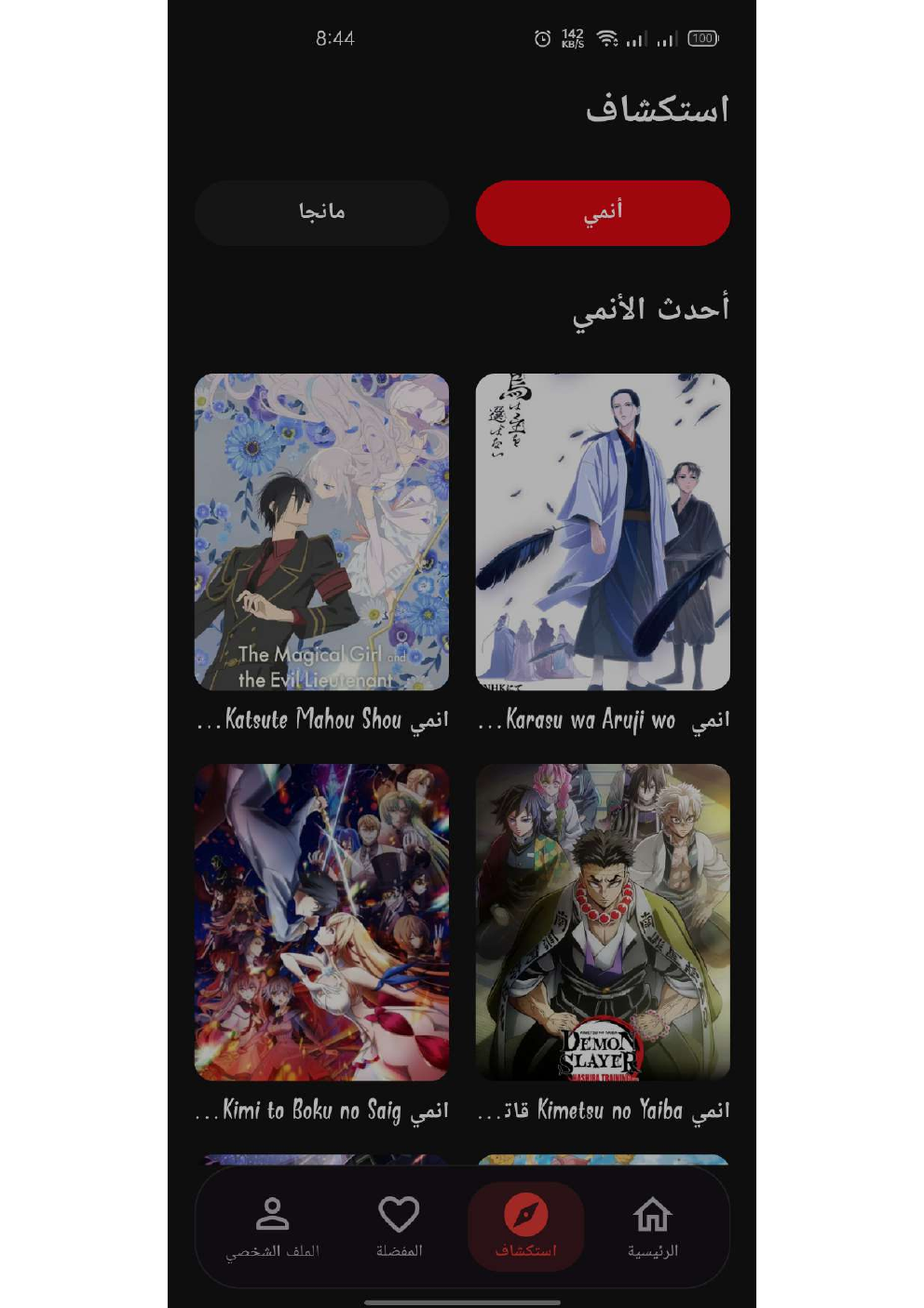
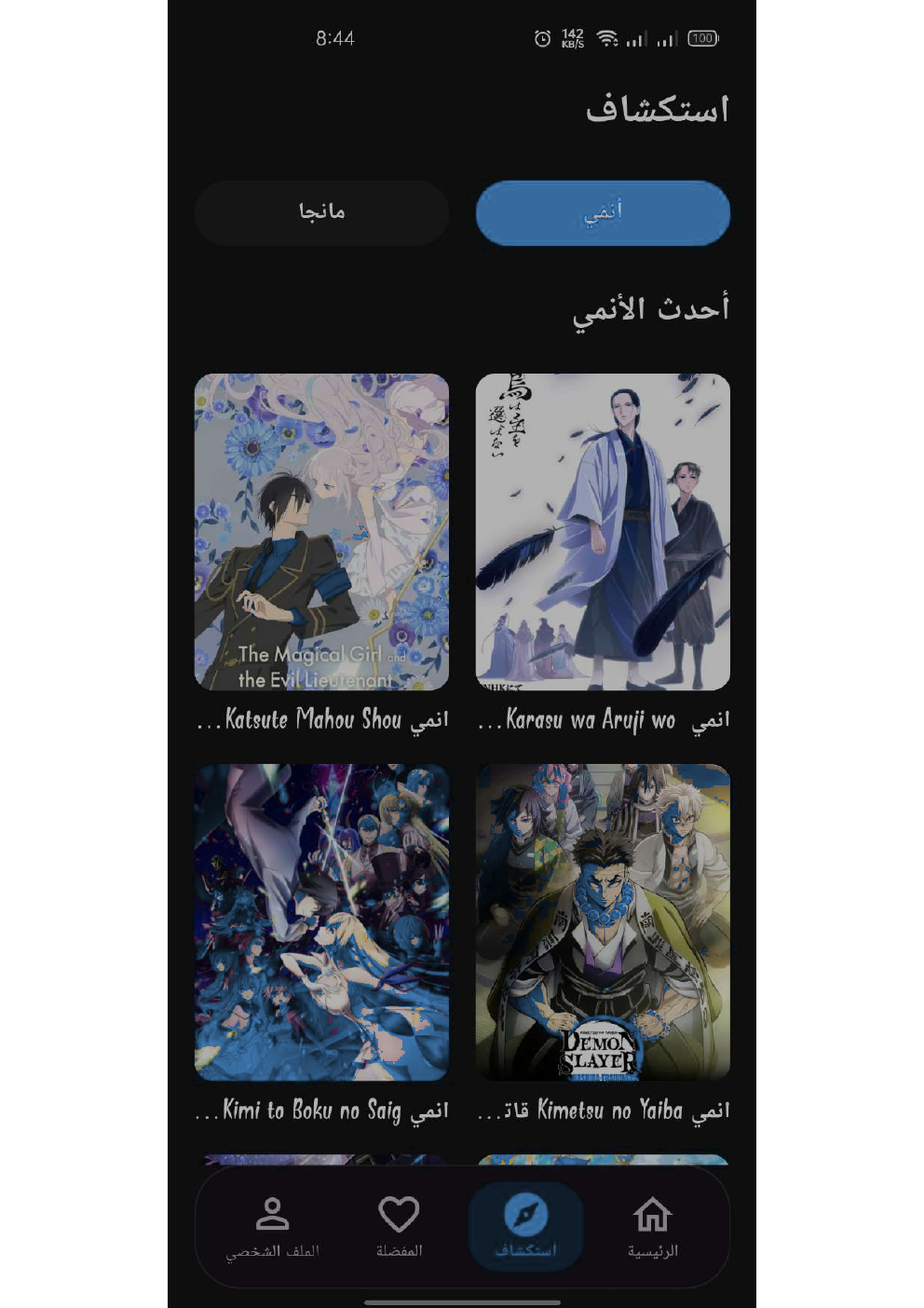
feat: apply blue app theme and refresh branding

diff --git a/website/styles.css b/website/styles.css
@@ -1,5 +1,5 @@
-:root{--bg:#090909;--panel:#151111;--muted:#b7a8a8;--ink:#fff8f8;--red:#ef3340;--red-bright:#ff5964;--red-dark:#75151d;--line:#382024}*{box-sizing:border-box}html{scroll-behavior:smooth}body{margin:0;background:var(--bg);color:var(--ink);font-family:'Cairo',system-ui,sans-serif;line-height:1.8;overflow-x:hidden}.brand,nav,.button,.eyebrow,.poster-mark,.compat,.icon{font-family:'Space Grotesk','Cairo',sans-serif}.orb{position:fixed;filter:blur(80px);opacity:.2;pointer-events:none;border-radius:50%;z-index:-1}.orb-a{width:340px;height:340px;background:#e11d2e;top:-120px;left:12%}.orb-b{width:300px;height:300px;background:#7f1d1d;bottom:10%;right:-160px}.nav{height:82px;max-width:1180px;margin:auto;padding:0 26px;display:flex;align-items:center;justify-content:space-between}.brand{display:flex;gap:10px;align-items:center;text-decoration:none;color:var(--ink);font-weight:700;font-size:22px;letter-spacing:-1px}.brand img{width:35px;height:35px;border-radius:10px}.brand span span{color:var(--red-bright)}nav{display:flex;gap:28px;align-items:center}nav a,footer a{color:var(--muted);text-decoration:none;font-size:14px}nav a:hover,footer a:hover{color:var(--ink)}.nav-button{border:1px solid var(--line);padding:8px 15px;border-radius:9px}.hero{max-width:1180px;margin:0 auto;padding:92px 26px 130px;display:grid;grid-template-columns:1.1fr .9fr;gap:30px;align-items:center}.eyebrow{font-size:11px;letter-spacing:1.7px;color:var(--red-bright);font-weight:700;margin:0 0 17px}.hero h1{font-size:clamp(48px,7vw,84px);line-height:1.08;letter-spacing:-4px;margin:0 0 26px}.hero h1 em{font-style:normal;color:var(--red-bright)}.lede{color:var(--muted);max-width:540px;font-size:17px;line-height:2}.actions{display:flex;gap:12px;margin:35px 0 17px;flex-wrap:wrap}.button{display:inline-flex;align-items:center;gap:20px;text-decoration:none;padding:12px 19px;border-radius:10px;font-weight:700;font-size:14px;transition:.2s transform,.2s background}.button:hover{transform:translateY(-2px)}.button span{font-size:20px}.primary{color:#fff;background:var(--red)}.primary:hover{background:var(--red-bright)}.secondary{color:var(--ink);border:1px solid var(--line);background:#171010}.compat{font-size:12px;color:#907b7b}.compat strong{color:#f3c5c5}.hero-art{position:relative;min-height:450px;display:grid;place-items:center}.poster-card{width:270px;height:390px;border-radius:20px;background:linear-gradient(145deg,#50151d,#241012 55%,#160d0e);position:relative;overflow:hidden;box-shadow:25px 30px 70px #000,0 0 100px #e11d2e33;transform:rotate(-7deg)}.poster-glow{position:absolute;width:240px;height:240px;background:#ff3344;filter:blur(50px);opacity:.35;top:-50px;left:-60px}.poster-mark{font-size:74px;letter-spacing:-7px;font-weight:700;position:absolute;top:48px;right:28px}.poster-mark span{color:var(--red-bright)}.poster-label{position:absolute;bottom:34px;right:28px;font-size:12px;letter-spacing:2px;color:#f4d9d9}.poster-label strong{font-size:18px;letter-spacing:1px;color:#fff}.poster-lines{position:absolute;bottom:0;left:-30px;width:180px;height:160px;border-right:1px solid #ff647099;border-radius:50%;transform:rotate(-25deg);box-shadow:20px 0 0 #ff647022,40px 0 0 #ff647018}.float-chip{position:absolute;background:#241719dd;border:1px solid #ffffff1a;padding:9px 15px;border-radius:12px;font-size:12px;color:#e2caca;box-shadow:0 10px 30px #0008}.chip-top{top:60px;left:0}.chip-bottom{bottom:67px;right:0}.feature-section{max-width:1180px;margin:auto;padding:0 26px 120px}.section-head h2,.release-band h2{font-size:42px;line-height:1.25;letter-spacing:-2px;margin:0}.section-head h2 span{color:var(--muted)}.feature-grid{display:grid;grid-template-columns:repeat(3,1fr);gap:16px;margin-top:45px}.feature-grid article{padding:26px;background:linear-gradient(145deg,#211415,#100b0c);border:1px solid var(--line);border-radius:14px}.icon{color:var(--red-bright);font-size:25px;margin-bottom:20px}.feature-grid h3{font-size:20px;margin:0 0 9px}.feature-grid p{color:var(--muted);font-size:14px;margin:0;line-height:1.9}.release-band{max-width:1128px;margin:0 auto 100px;padding:34px;background:linear-gradient(100deg,#351619,#271113);border:1px solid #69252d;border-radius:16px;display:flex;justify-content:space-between;align-items:center;gap:20px}.release-band h2{font-size:28px}.release-band p:not(.eyebrow){color:var(--muted);margin:8px 0 0;font-size:14px}footer{max-width:1128px;margin:auto;border-top:1px solid var(--line);padding:26px 0 42px;display:flex;justify-content:space-between;color:#806c6c;font-size:13px}.page{max-width:820px;margin:60px auto 110px;padding:0 24px}.page h1{font-size:56px;line-height:1.15;letter-spacing:-3px}.page h2{margin-top:42px;color:var(--red-bright)}.page p,.page li{color:var(--muted)}.page a{color:var(--red-bright)}.release-card{padding:28px;background:var(--panel);border:1px solid var(--line);border-radius:15px;margin:28px 0}.release-card h2{margin:0;color:var(--ink)}.release-card pre{white-space:pre-wrap;color:var(--muted);font-family:'Cairo',sans-serif}.install li{margin:12px 0}.muted{color:var(--muted)}@media(max-width:760px){.nav{height:72px}.nav nav a:not(.nav-button){display:none}.hero{padding-top:55px;grid-template-columns:1fr}.hero-art{min-height:360px}.poster-card{width:220px;height:318px}.float-chip{font-size:11px}.chip-top{left:10px}.chip-bottom{right:10px}.feature-grid{grid-template-columns:1fr}.release-band{margin:0 20px 70px;display:block}.release-band .button{margin-top:22px}footer{margin:0 24px;display:block}footer span,footer a{display:block;margin:9px 0}.page h1{font-size:43px}}
+:root{--bg:#090909;--panel:#151111;--muted:#BBD7F2;--ink:#fff8f8;--red:#ef3340;--red-bright:#42A5F5;--red-dark:#75151d;--line:#382024}*{box-sizing:border-box}html{scroll-behavior:smooth}body{margin:0;background:var(--bg);color:var(--ink);font-family:'Cairo',system-ui,sans-serif;line-height:1.8;overflow-x:hidden}.brand,nav,.button,.eyebrow,.poster-mark,.compat,.icon{font-family:'Space Grotesk','Cairo',sans-serif}.orb{position:fixed;filter:blur(80px);opacity:.2;pointer-events:none;border-radius:50%;z-index:-1}.orb-a{width:340px;height:340px;background:#e11d2e;top:-120px;left:12%}.orb-b{width:300px;height:300px;background:#7f1d1d;bottom:10%;right:-160px}.nav{height:82px;max-width:1180px;margin:auto;padding:0 26px;display:flex;align-items:center;justify-content:space-between}.brand{display:flex;gap:10px;align-items:center;text-decoration:none;color:var(--ink);font-weight:700;font-size:22px;letter-spacing:-1px}.brand img{width:35px;height:35px;border-radius:10px}.brand span span{color:var(--red-bright)}nav{display:flex;gap:28px;align-items:center}nav a,footer a{color:var(--muted);text-decoration:none;font-size:14px}nav a:hover,footer a:hover{color:var(--ink)}.nav-button{border:1px solid var(--line);padding:8px 15px;border-radius:9px}.hero{max-width:1180px;margin:0 auto;padding:92px 26px 130px;display:grid;grid-template-columns:1.1fr .9fr;gap:30px;align-items:center}.eyebrow{font-size:11px;letter-spacing:1.7px;color:var(--red-bright);font-weight:700;margin:0 0 17px}.hero h1{font-size:clamp(48px,7vw,84px);line-height:1.08;letter-spacing:-4px;margin:0 0 26px}.hero h1 em{font-style:normal;color:var(--red-bright)}.lede{color:var(--muted);max-width:540px;font-size:17px;line-height:2}.actions{display:flex;gap:12px;margin:35px 0 17px;flex-wrap:wrap}.button{display:inline-flex;align-items:center;gap:20px;text-decoration:none;padding:12px 19px;border-radius:10px;font-weight:700;font-size:14px;transition:.2s transform,.2s background}.button:hover{transform:translateY(-2px)}.button span{font-size:20px}.primary{color:#fff;background:var(--red)}.primary:hover{background:var(--red-bright)}.secondary{color:var(--ink);border:1px solid var(--line);background:#171010}.compat{font-size:12px;color:#907b7b}.compat strong{color:#f3c5c5}.hero-art{position:relative;min-height:450px;display:grid;place-items:center}.poster-card{width:270px;height:390px;border-radius:20px;background:linear-gradient(145deg,#50151d,#241012 55%,#160d0e);position:relative;overflow:hidden;box-shadow:25px 30px 70px #000,0 0 100px #e11d2e33;transform:rotate(-7deg)}.poster-glow{position:absolute;width:240px;height:240px;background:#ff3344;filter:blur(50px);opacity:.35;top:-50px;left:-60px}.poster-mark{font-size:74px;letter-spacing:-7px;font-weight:700;position:absolute;top:48px;right:28px}.poster-mark span{color:var(--red-bright)}.poster-label{position:absolute;bottom:34px;right:28px;font-size:12px;letter-spacing:2px;color:#f4d9d9}.poster-label strong{font-size:18px;letter-spacing:1px;color:#fff}.poster-lines{position:absolute;bottom:0;left:-30px;width:180px;height:160px;border-right:1px solid #ff647099;border-radius:50%;transform:rotate(-25deg);box-shadow:20px 0 0 #ff647022,40px 0 0 #ff647018}.float-chip{position:absolute;background:#241719dd;border:1px solid #ffffff1a;padding:9px 15px;border-radius:12px;font-size:12px;color:#e2caca;box-shadow:0 10px 30px #0008}.chip-top{top:60px;left:0}.chip-bottom{bottom:67px;right:0}.feature-section{max-width:1180px;margin:auto;padding:0 26px 120px}.section-head h2,.release-band h2{font-size:42px;line-height:1.25;letter-spacing:-2px;margin:0}.section-head h2 span{color:var(--muted)}.feature-grid{display:grid;grid-template-columns:repeat(3,1fr);gap:16px;margin-top:45px}.feature-grid article{padding:26px;background:linear-gradient(145deg,#211415,#100b0c);border:1px solid var(--line);border-radius:14px}.icon{color:var(--red-bright);font-size:25px;margin-bottom:20px}.feature-grid h3{font-size:20px;margin:0 0 9px}.feature-grid p{color:var(--muted);font-size:14px;margin:0;line-height:1.9}.release-band{max-width:1128px;margin:0 auto 100px;padding:34px;background:linear-gradient(100deg,#351619,#271113);border:1px solid #69252d;border-radius:16px;display:flex;justify-content:space-between;align-items:center;gap:20px}.release-band h2{font-size:28px}.release-band p:not(.eyebrow){color:var(--muted);margin:8px 0 0;font-size:14px}footer{max-width:1128px;margin:auto;border-top:1px solid var(--line);padding:26px 0 42px;display:flex;justify-content:space-between;color:#806c6c;font-size:13px}.page{max-width:820px;margin:60px auto 110px;padding:0 24px}.page h1{font-size:56px;line-height:1.15;letter-spacing:-3px}.page h2{margin-top:42px;color:var(--red-bright)}.page p,.page li{color:var(--muted)}.page a{color:var(--red-bright)}.release-card{padding:28px;background:var(--panel);border:1px solid var(--line);border-radius:15px;margin:28px 0}.release-card h2{margin:0;color:var(--ink)}.release-card pre{white-space:pre-wrap;color:var(--muted);font-family:'Cairo',sans-serif}.install li{margin:12px 0}.muted{color:var(--muted)}@media(max-width:760px){.nav{height:72px}.nav nav a:not(.nav-button){display:none}.hero{padding-top:55px;grid-template-columns:1fr}.hero-art{min-height:360px}.poster-card{width:220px;height:318px}.float-chip{font-size:11px}.chip-top{left:10px}.chip-bottom{right:10px}.feature-grid{grid-template-columns:1fr}.release-band{margin:0 20px 70px;display:block}.release-band .button{margin-top:22px}footer{margin:0 24px;display:block}footer span,footer a{display:block;margin:9px 0}.page h1{font-size:43px}}
 
 .screens-section{max-width:1180px;margin:auto;padding:0 26px 120px}.screens-lede{max-width:560px;color:var(--muted);margin:18px 0 0}.screens-grid{display:grid;grid-template-columns:repeat(5,minmax(0,1fr));gap:16px;margin-top:42px;align-items:start}.screens-grid figure{margin:0}.screens-grid img{display:block;width:100%;aspect-ratio:992/1404;object-fit:cover;border-radius:18px;border:1px solid #6d2832;box-shadow:0 18px 40px #0009,0 0 28px #e11d2e22;filter:saturate(1.12) contrast(1.04);transition:transform .25s ease,box-shadow .25s ease}.screens-grid figure:nth-child(even){margin-top:28px}.screens-grid img:hover{transform:translateY(-8px) scale(1.02);box-shadow:0 24px 52px #000b,0 0 34px #e11d2e55}.screens-grid figcaption{color:#e7c8c8;text-align:center;font-size:13px;margin-top:12px}@media(max-width:900px){.screens-grid{grid-template-columns:repeat(3,minmax(0,1fr))}}@media(max-width:760px){.screens-grid{grid-template-columns:repeat(2,minmax(0,1fr));gap:14px}.screens-grid figure:nth-child(even){margin-top:18px}.screens-lede{font-size:14px}}
 
-.auth-page{min-height:100vh}.auth-shell{max-width:560px;margin:0 auto;padding:72px 24px 110px}.auth-card{background:linear-gradient(145deg,#211415,#100b0c);border:1px solid var(--line);border-radius:18px;padding:38px;box-shadow:0 24px 70px #0008}.auth-card h1{font-family:'Space Grotesk','Cairo',sans-serif;font-size:clamp(42px,8vw,64px);line-height:1.1;letter-spacing:-3px;margin:0 0 14px}.auth-lede{color:var(--muted);margin:0 0 28px}.auth-card label{display:block;color:#f0dada;font-size:14px;font-weight:700;margin:18px 0 8px}.auth-card input{display:block;width:100%;padding:13px 14px;border:1px solid var(--line);border-radius:10px;background:#0d0a0a;color:var(--ink);font:inherit;outline:none}.auth-card input:focus{border-color:var(--red-bright);box-shadow:0 0 0 3px #ff596422}.auth-submit{width:100%;justify-content:center;margin-top:24px;cursor:pointer;border:0}.auth-submit:disabled{opacity:.65;cursor:wait}.status{padding:13px 15px;border-radius:10px;font-size:14px;line-height:1.7;margin:18px 0}.status.error{background:#4a171d;color:#ffd8d8;border:1px solid #8a2b36}.status.success{background:#173d2c;color:#d7ffe8;border:1px solid #2c7b54}.auth-note{color:#806c6c;font-size:12px;line-height:1.8;margin:26px 0 0;text-align:center}@media(max-width:760px){.auth-shell{padding-top:38px}.auth-card{padding:26px 20px}.auth-card h1{font-size:43px}.auth-page .nav nav a{display:none}}
+.auth-page{min-height:100vh}.auth-shell{max-width:560px;margin:0 auto;padding:72px 24px 110px}.auth-card{background:linear-gradient(145deg,#211415,#100b0c);border:1px solid var(--line);border-radius:18px;padding:38px;box-shadow:0 24px 70px #0008}.auth-card h1{font-family:'Space Grotesk','Cairo',sans-serif;font-size:clamp(42px,8vw,64px);line-height:1.1;letter-spacing:-3px;margin:0 0 14px}.auth-lede{color:var(--muted);margin:0 0 28px}.auth-card label{display:block;color:#f0dada;font-size:14px;font-weight:700;margin:18px 0 8px}.auth-card input{display:block;width:100%;padding:13px 14px;border:1px solid var(--line);border-radius:10px;background:#0d0a0a;color:var(--ink);font:inherit;outline:none}.auth-card input:focus{border-color:var(--red-bright);box-shadow:0 0 0 3px #42A5F522}.auth-submit{width:100%;justify-content:center;margin-top:24px;cursor:pointer;border:0}.auth-submit:disabled{opacity:.65;cursor:wait}.status{padding:13px 15px;border-radius:10px;font-size:14px;line-height:1.7;margin:18px 0}.status.error{background:#4a171d;color:#ffd8d8;border:1px solid #8a2b36}.status.success{background:#173d2c;color:#d7ffe8;border:1px solid #2c7b54}.auth-note{color:#806c6c;font-size:12px;line-height:1.8;margin:26px 0 0;text-align:center}@media(max-width:760px){.auth-shell{padding-top:38px}.auth-card{padding:26px 20px}.auth-card h1{font-size:43px}.auth-page .nav nav a{display:none}}

diff --git a/website/privacy.html b/website/privacy.html
@@ -1,1 +1,1 @@
-<!doctype html><html lang="ar" dir="rtl"><head><meta charset="utf-8"><meta name="viewport" content="width=device-width,initial-scale=1"><meta name="theme-color" content="#090909"><title>سياسة الخصوصية — AniTV</title><style>body{margin:0;background:#090909;color:#fff8f8;font-family:Arial,Tahoma,sans-serif;line-height:2}main{max-width:820px;margin:auto;padding:30px 22px 80px}a{color:#ff5964}.brand{font-size:25px;font-weight:800;border-bottom:1px solid #3b2025;padding-bottom:20px}.brand b{color:#ff5964}h1{font-size:42px;margin-top:65px}h2{color:#ff5964;margin-top:35px}p{color:#b7a8a8}.back{display:inline-block;margin-top:35px;border:1px solid #3b2025;border-radius:10px;padding:9px 15px;text-decoration:none}</style></head><body><main><div class="brand">Ani<b>TV</b></div><h1>سياسة الخصوصية</h1><p>آخر تحديث: 16 سبتمبر 2026</p><p>توضح هذه السياسة كيفية تعامل AniTV مع المعلومات عند استخدام تطبيق Android وموقعه.</p><h2>المصادقة وبيانات الحساب</h2><p>قد يعالج التطبيق الاسم والبريد الإلكتروني عند إنشاء الحساب أو تسجيل الدخول، وذلك لتوفير المصادقة والحفاظ على الجلسة.</p><h2>المفضلة والسجل والتنزيلات</h2><p>تُستخدم المفضلة وسجل المشاهدة والتفضيلات وبيانات التنزيلات لتوفير الميزات المقابلة داخل التطبيق. تُخزن الملفات التي تنزلها على جهازك.</p><h2>مصادر المحتوى</h2><p>يجلب AniTV بيانات وروابط المحتوى من مصادر خارجية متاحة داخل التطبيق. قد تعالج هذه المصادر معلومات الشبكة وفق سياساتها الخاصة.</p><h2>البيانات المحلية</h2><p>يخزن التطبيق بعض التفضيلات والبيانات المحلية على جهازك. يمكنك إزالة هذه البيانات عبر إعدادات التطبيق أو إلغاء تثبيته.</p><h2>التواصل وحذف البيانات</h2><p>لطلب حذف حسابك أو بياناتك، تواصل مع مسؤولي المشروع عبر <a href="https://github.com/anitv-official/Ani-TV">المستودع الرسمي</a>.</p><a class="back" href="/">العودة إلى الموقع</a></main></body></html>
+<!doctype html><html lang="ar" dir="rtl"><head><meta charset="utf-8"><meta name="viewport" content="width=device-width,initial-scale=1"><meta name="theme-color" content="#090909"><title>سياسة الخصوصية — AniTV</title><style>body{margin:0;background:#090909;color:#fff8f8;font-family:Arial,Tahoma,sans-serif;line-height:2}main{max-width:820px;margin:auto;padding:30px 22px 80px}a{color:#42A5F5}.brand{font-size:25px;font-weight:800;border-bottom:1px solid #123B68;padding-bottom:20px}.brand b{color:#42A5F5}h1{font-size:42px;margin-top:65px}h2{color:#42A5F5;margin-top:35px}p{color:#BBD7F2}.back{display:inline-block;margin-top:35px;border:1px solid #123B68;border-radius:10px;padding:9px 15px;text-decoration:none}</style></head><body><main><div class="brand">Ani<b>TV</b></div><h1>سياسة الخصوصية</h1><p>آخر تحديث: 16 سبتمبر 2026</p><p>توضح هذه السياسة كيفية تعامل AniTV مع المعلومات عند استخدام تطبيق Android وموقعه.</p><h2>المصادقة وبيانات الحساب</h2><p>قد يعالج التطبيق الاسم والبريد الإلكتروني عند إنشاء الحساب أو تسجيل الدخول، وذلك لتوفير المصادقة والحفاظ على الجلسة.</p><h2>المفضلة والسجل والتنزيلات</h2><p>تُستخدم المفضلة وسجل المشاهدة والتفضيلات وبيانات التنزيلات لتوفير الميزات المقابلة داخل التطبيق. تُخزن الملفات التي تنزلها على جهازك.</p><h2>مصادر المحتوى</h2><p>يجلب AniTV بيانات وروابط المحتوى من مصادر خارجية متاحة داخل التطبيق. قد تعالج هذه المصادر معلومات الشبكة وفق سياساتها الخاصة.</p><h2>البيانات المحلية</h2><p>يخزن التطبيق بعض التفضيلات والبيانات المحلية على جهازك. يمكنك إزالة هذه البيانات عبر إعدادات التطبيق أو إلغاء تثبيته.</p><h2>التواصل وحذف البيانات</h2><p>لطلب حذف حسابك أو بياناتك، تواصل مع مسؤولي المشروع عبر <a href="https://github.com/anitv-official/Ani-TV">المستودع الرسمي</a>.</p><a class="back" href="/">العودة إلى الموقع</a></main></body></html>

diff --git a/lib/screens/community_screen.dart b/lib/screens/community_screen.dart
@@ -71,7 +71,7 @@ class _NewsCard extends StatelessWidget {
       Row(children: [Container(padding: const EdgeInsets.symmetric(horizontal: 9, vertical: 4), decoration: BoxDecoration(color: AppTheme.primaryColor.withOpacity(.18), borderRadius: BorderRadius.circular(20)), child: Text(item.category, style: TextStyle(color: AppTheme.primaryColor, fontSize: 11, fontWeight: FontWeight.bold))), const Spacer(), Text(item.source, style: TextStyle(color: AppTheme.textSecondaryColor, fontSize: 11))]),
       const SizedBox(height: 8), Text(item.titleArabic, maxLines: 2, overflow: TextOverflow.ellipsis, style: const TextStyle(color: Colors.white, fontSize: 18, fontWeight: FontWeight.w800)),
       const SizedBox(height: 7), Text(item.summaryArabic, maxLines: 3, overflow: TextOverflow.ellipsis, style: TextStyle(color: AppTheme.textSecondaryColor, height: 1.45)),
-      const SizedBox(height: 12), Row(children: [Icon(Icons.favorite_rounded, size: 17, color: item.likedByMe ? Colors.redAccent : AppTheme.textSecondaryColor), const SizedBox(width: 4), Text('${item.likeCount}', style: TextStyle(color: AppTheme.textSecondaryColor, fontSize: 12)), const SizedBox(width: 16), Icon(Icons.comment_rounded, size: 17, color: AppTheme.textSecondaryColor), const SizedBox(width: 4), Text('${item.commentCount}', style: TextStyle(color: AppTheme.textSecondaryColor, fontSize: 12)), const Spacer(), Text(_date(item.publishedAt), style: TextStyle(color: AppTheme.textSecondaryColor, fontSize: 11))]),
+      const SizedBox(height: 12), Row(children: [Icon(Icons.favorite_rounded, size: 17, color: item.likedByMe ? Color(0xFF1976D2) : AppTheme.textSecondaryColor), const SizedBox(width: 4), Text('${item.likeCount}', style: TextStyle(color: AppTheme.textSecondaryColor, fontSize: 12)), const SizedBox(width: 16), Icon(Icons.comment_rounded, size: 17, color: AppTheme.textSecondaryColor), const SizedBox(width: 4), Text('${item.commentCount}', style: TextStyle(color: AppTheme.textSecondaryColor, fontSize: 12)), const Spacer(), Text(_date(item.publishedAt), style: TextStyle(color: AppTheme.textSecondaryColor, fontSize: 11))]),
     ])),
   ])));
 }
@@ -91,7 +91,7 @@ class _NewsDetailScreenState extends State<NewsDetailScreen> {
     if (item.titleOriginal.isNotEmpty && item.titleOriginal != item.titleArabic) Padding(padding: const EdgeInsets.only(top: 8), child: Text(item.titleOriginal, style: TextStyle(color: AppTheme.textSecondaryColor, fontSize: 13))),
     const SizedBox(height: 14), Text(item.summaryArabic, style: const TextStyle(color: Colors.white, fontSize: 16, height: 1.65)),
     const SizedBox(height: 8), Text('${item.source} • ${_date(item.publishedAt)}', style: TextStyle(color: AppTheme.textSecondaryColor)),
-    const SizedBox(height: 14), Row(children: [Consumer<NewsProvider>(builder: (_, provider, __) => OutlinedButton.icon(onPressed: () async { try { await provider.toggleLike(item); } catch (e) { if (context.mounted) ScaffoldMessenger.of(context).showSnackBar(SnackBar(content: Text(e.toString()))); } }, icon: Icon(item.likedByMe ? Icons.favorite : Icons.favorite_border, color: Colors.redAccent), label: Text('${item.likeCount} إعجاب'))), const SizedBox(width: 10), if (item.sourceUrl.isNotEmpty) Expanded(child: FilledButton.icon(onPressed: () => launchUrl(Uri.parse(item.sourceUrl), mode: LaunchMode.externalApplication), icon: const Icon(Icons.open_in_new_rounded), label: const Text('قراءة الخبر الأصلي')))]),
+    const SizedBox(height: 14), Row(children: [Consumer<NewsProvider>(builder: (_, provider, __) => OutlinedButton.icon(onPressed: () async { try { await provider.toggleLike(item); } catch (e) { if (context.mounted) ScaffoldMessenger.of(context).showSnackBar(SnackBar(content: Text(e.toString()))); } }, icon: Icon(item.likedByMe ? Icons.favorite : Icons.favorite_border, color: Color(0xFF1976D2)), label: Text('${item.likeCount} إعجاب'))), const SizedBox(width: 10), if (item.sourceUrl.isNotEmpty) Expanded(child: FilledButton.icon(onPressed: () => launchUrl(Uri.parse(item.sourceUrl), mode: LaunchMode.externalApplication), icon: const Icon(Icons.open_in_new_rounded), label: const Text('قراءة الخبر الأصلي')))]),
     const SizedBox(height: 24), const Text('التعليقات', style: TextStyle(color: Colors.white, fontSize: 20, fontWeight: FontWeight.bold)), const SizedBox(height: 10),
     Row(crossAxisAlignment: CrossAxisAlignment.end, children: [Expanded(child: TextField(controller: comment, maxLines: 3, minLines: 1, decoration: const InputDecoration(hintText: 'اكتب تعليقك'))), const SizedBox(width: 8), IconButton.filled(onPressed: sending ? null : _send, icon: const Icon(Icons.send_rounded))]),
     const SizedBox(height: 12), if (loading) const Center(child: CircularProgressIndicator()), ...comments.map((value) => _CommentTile(value: value)),

diff --git a/lib/widgets/custom_controls.dart b/lib/widgets/custom_controls.dart
@@ -852,8 +852,8 @@ class _MaterialControlsState extends State<MaterialControls>
                 _startHideTimer();
               },
               colors: ChewieProgressColors(
-                playedColor: Colors.red,
-                handleColor: Colors.red,
+                playedColor: Color(0xFF1976D2),
+                handleColor: Color(0xFF1976D2),
                 bufferedColor: Colors.white,
                 backgroundColor: Colors.white24,
               ),
@@ -1011,7 +1011,7 @@ class _MaterialControlsState extends State<MaterialControls>
               decoration: BoxDecoration(
                 shape: BoxShape.circle,
                 border: Border.all(
-                  color: isSelected ? Colors.red : Colors.grey[600]!,
+                  color: isSelected ? Color(0xFF1976D2) : Colors.grey[600]!,
                   width: 2,
                 ),
               ),
@@ -1022,7 +1022,7 @@ class _MaterialControlsState extends State<MaterialControls>
                         height: 10,
                         decoration: BoxDecoration(
                           shape: BoxShape.circle,
-                          color: Colors.red,
+                          color: Color(0xFF1976D2),
                         ),
                       ),
                     )
@@ -1056,7 +1056,7 @@ class _MaterialControlsState extends State<MaterialControls>
             if (isSelected)
               Icon(
                 Icons.check,
-                color: Colors.red,
+                color: Color(0xFF1976D2),
                 size: 20,
               ),
           ],
@@ -1183,7 +1183,7 @@ class _MaterialControlsState extends State<MaterialControls>
               decoration: BoxDecoration(
                 shape: BoxShape.circle,
                 border: Border.all(
-                  color: isSelected ? Colors.red : Colors.grey[600]!,
+                  color: isSelected ? Color(0xFF1976D2) : Colors.grey[600]!,
                   width: 2,
                 ),
               ),
@@ -1194,7 +1194,7 @@ class _MaterialControlsState extends State<MaterialControls>
                         height: 10,
                         decoration: BoxDecoration(
                           shape: BoxShape.circle,
-                          color: Colors.red,
+                          color: Color(0xFF1976D2),
                         ),
                       ),
                     )
@@ -1228,7 +1228,7 @@ class _MaterialControlsState extends State<MaterialControls>
             if (isSelected)
               Icon(
                 Icons.check,
-                color: Colors.red,
+                color: Color(0xFF1976D2),
                 size: 20,
               ),
           ],
@@ -1621,10 +1621,10 @@ class _MaterialVideoProgressBarState extends State<MaterialVideoProgressBar> {
         trackShape: _CustomTrackShape(),
         thumbShape: const RoundSliderThumbShape(enabledThumbRadius: 6.0), // Smaller thumb
         overlayShape: const RoundSliderOverlayShape(overlayRadius: 12.0),
-        activeTrackColor: Colors.red,
+        activeTrackColor: Color(0xFF1976D2),
         inactiveTrackColor: Colors.white.withOpacity(0.2), // More subtle inactive track
-        thumbColor: Colors.red,
-        overlayColor: Colors.red.withAlpha(50),
+        thumbColor: Color(0xFF1976D2),
+        overlayColor: Color(0xFF1976D2).withAlpha(50),
       ),
       child: GestureDetector(
         onTapDown: (details) {

diff --git a/lib/screens/anime_details_screen.dart b/lib/screens/anime_details_screen.dart
@@ -228,9 +228,9 @@ class _AnimeDetailsScreenState extends State<AnimeDetailsScreen> {
     try {
       final anime = await _animeDetailsFuture;
       final sent = await DownloadService.sendToAdm(url, title: '${anime['title'] ?? 'أنمي'} - ${episode['title'] ?? 'حلقة'}');
-      if (mounted) ToastUtils.show(sent ? 'تم إرسال الرابط إلى ADM' : 'لم يتم العثور على تطبيق ADM. ثبّته أولًا ثم أعد المحاولة.', backgroundColor: sent ? AppTheme.accentColor : Colors.red);
+      if (mounted) ToastUtils.show(sent ? 'تم إرسال الرابط إلى ADM' : 'لم يتم العثور على تطبيق ADM. ثبّته أولًا ثم أعد المحاولة.', backgroundColor: sent ? AppTheme.accentColor : Color(0xFF1976D2));
     } catch (error) {
-      if (mounted) ToastUtils.show('تعذر تنزيل الحلقة: $error', backgroundColor: Colors.red);
+      if (mounted) ToastUtils.show('تعذر تنزيل الحلقة: $error', backgroundColor: Color(0xFF1976D2));
     }
   }
 
@@ -253,7 +253,7 @@ class _AnimeDetailsScreenState extends State<AnimeDetailsScreen> {
       if (mounted) ToastUtils.show('تم حفظ الحلقة في التنزيلات', backgroundColor: AppTheme.accentColor);
       return true;
     } catch (error) {
-      if (mounted) ToastUtils.show('تعذر تنزيل الحلقة: $error', backgroundColor: Colors.red);
+      if (mounted) ToastUtils.show('تعذر تنزيل الحلقة: $error', backgroundColor: Color(0xFF1976D2));
       return false;
     }
   }
@@ -524,7 +524,7 @@ class _AnimeDetailsScreenState extends State<AnimeDetailsScreen> {
       }
     } catch (e) {
       if (context.mounted) Navigator.pop(context); // Close loading
-      ToastUtils.show('تعذر تحميل مصادر التشغيل', backgroundColor: Colors.red);
+      ToastUtils.show('تعذر تحميل مصادر التشغيل', backgroundColor: Color(0xFF1976D2));
     }
   }
 
@@ -670,7 +670,7 @@ class _AnimeDetailsScreenState extends State<AnimeDetailsScreen> {
       }
     } catch (e) {
       if (context.mounted) Navigator.pop(context); // Close loading
-      ToastUtils.show('تعذر تحميل روابط التنزيل', backgroundColor: Colors.red);
+      ToastUtils.show('تعذر تحميل روابط التنزيل', backgroundColor: Color(0xFF1976D2));
     }
   }
 
@@ -720,7 +720,7 @@ class _FavoriteIconActionState extends State<_FavoriteIconAction> {
             }
             setState((){});
          } catch (e) {
-            ToastUtils.show('تعذر تحديث المفضلة', backgroundColor: Colors.red);
+            ToastUtils.show('تعذر تحديث المفضلة', backgroundColor: Color(0xFF1976D2));
          }
       },
     );

diff --git a/lib/screens/video_player_screen.dart b/lib/screens/video_player_screen.dart
@@ -382,13 +382,13 @@ class _VideoPlayerScreenState extends State<VideoPlayerScreen> {
           ),
           placeholder: Center(
             child: CircularProgressIndicator(
-              valueColor: AlwaysStoppedAnimation<Color>(Colors.red),
+              valueColor: AlwaysStoppedAnimation<Color>(Color(0xFF1976D2)),
               strokeWidth: 2,
             ),
           ),
           materialProgressColors: ChewieProgressColors(
-            playedColor: Colors.red,
-            handleColor: Colors.red,
+            playedColor: Color(0xFF1976D2),
+            handleColor: Color(0xFF1976D2),
             backgroundColor: Colors.grey.shade800,
             bufferedColor: Colors.grey.shade600,
           ),
@@ -807,7 +807,7 @@ class _VideoPlayerScreenState extends State<VideoPlayerScreen> {
                       child: Center(
                         child: CustomLoadingWidget(
                             message: _isChangingResolution ? "Switching Quality..." : "جارٍ التحميل...",
-                            color: Colors.red,
+                            color: Color(0xFF1976D2),
                         ),
                       ),
                     ),
@@ -829,7 +829,7 @@ class _VideoPlayerScreenState extends State<VideoPlayerScreen> {
         child: Center(
           child: CustomLoadingWidget(
             message: 'Initializing...',
-            color: Colors.red,
+            color: Color(0xFF1976D2),
           ),
         ),
       );
@@ -890,16 +890,16 @@ class _VideoPlayerScreenState extends State<VideoPlayerScreen> {
             Container(
               padding: EdgeInsets.all(16),
               decoration: BoxDecoration(
-                color: Colors.red.withOpacity(0.1),
+                color: Color(0xFF1976D2).withOpacity(0.1),
                 borderRadius: BorderRadius.circular(12),
                 border: Border.all(
-                  color: Colors.red.withOpacity(0.3),
+                  color: Color(0xFF1976D2).withOpacity(0.3),
                   width: 1,
                 ),
               ),
               child: Icon(
                 Icons.error_outline,
-                color: Colors.red,
+                color: Color(0xFF1976D2),
                 size: 48,
               ),
             ),
@@ -927,7 +927,7 @@ class _VideoPlayerScreenState extends State<VideoPlayerScreen> {
                 _initializePlayer();
               },
               style: ElevatedButton.styleFrom(
-                backgroundColor: Colors.red,
+                backgroundColor: Color(0xFF1976D2),
                 foregroundColor: Colors.white,
                 padding: EdgeInsets.symmetric(horizontal: 24, vertical: 12),
                 shape: RoundedRectangleBorder(

diff --git a/lib/theme/app_theme.dart b/lib/theme/app_theme.dart
@@ -2,14 +2,14 @@ import 'package:flutter/material.dart';
 import 'package:flutter/services.dart';
 
 class AppTheme {
-  static const Color primaryColor = Color(0xFFE50914);
-  static const Color primarySoft = Color(0xFFB81D24);
-  static const Color accentColor = Color(0xFFE50914);
+  static const Color primaryColor = Color(0xFF1976D2);
+  static const Color primarySoft = Color(0xFF0D47A1);
+  static const Color accentColor = Color(0xFF1976D2);
   static const Color backgroundColor = Color(0xFF0B0B0D);
   static const Color cardColor = Color(0xFF141418);
   static const Color surfaceColor = Color(0xFF1A1A20);
   static const Color elevatedColor = Color(0xFF22222A);
-  static const Color errorColor = Color(0xFFCF3B3B);
+  static const Color errorColor = Color(0xFF1565C0);
   static const Color successColor = Color(0xFF3D9A5F);
   static const Color warningColor = Color(0xFFC9A227);
   static const Color textPrimaryColor = Color(0xFFF5F5F7);
@@ -40,7 +40,7 @@ class AppTheme {
   static LinearGradient get primaryGradient => const LinearGradient(
         begin: Alignment.topLeft,
         end: Alignment.bottomRight,
-        colors: [Color(0xFFE50914), Color(0xFFB81D24)],
+        colors: [Color(0xFF1976D2), Color(0xFF0D47A1)],
       );
 
   static LinearGradient get darkGradient => LinearGradient(

diff --git a/lib/screens/comic_details_screen.dart b/lib/screens/comic_details_screen.dart
@@ -173,7 +173,7 @@ class _ComicDetailsScreenState extends State<ComicDetailsScreen> {
       ToastUtils.show('تم حفظ الفصل داخل: $folder', backgroundColor: Colors.green);
       return true;
     } catch (e) {
-      ToastUtils.show('تعذر تنزيل الفصل: $e', backgroundColor: Colors.red);
+      ToastUtils.show('تعذر تنزيل الفصل: $e', backgroundColor: Color(0xFF1976D2));
       return false;
     }
   }
@@ -622,7 +622,7 @@ class _FavoriteIconActionState extends State<_FavoriteIconAction> {
                ToastUtils.show('تمت الإضافة إلى المفضلة', backgroundColor: AppTheme.primaryColor);
             }
          } catch (e) {
-            ToastUtils.show('تعذر تحديث المفضلة', backgroundColor: Colors.red);
+            ToastUtils.show('تعذر تحديث المفضلة', backgroundColor: Color(0xFF1976D2));
          }
       },
     );

diff --git a/lib/screens/search_screen.dart b/lib/screens/search_screen.dart
@@ -745,7 +745,7 @@ class _SearchScreenState extends State<SearchScreen> with SingleTickerProviderSt
       }
     } catch (e) {
       if (mounted) Navigator.pop(context); // Close loading
-      ToastUtils.show('تعذر تحميل مصادر التشغيل', backgroundColor: Colors.red);
+      ToastUtils.show('تعذر تحميل مصادر التشغيل', backgroundColor: Color(0xFF1976D2));
     }
   }
 
@@ -818,7 +818,7 @@ class _SearchScreenState extends State<SearchScreen> with SingleTickerProviderSt
       }
     } catch (e) {
       Navigator.pop(context); // Ensure loading is closed
-      ToastUtils.show('تعذر تحميل تفاصيل الحلقة', backgroundColor: Colors.red);
+      ToastUtils.show('تعذر تحميل تفاصيل الحلقة', backgroundColor: Color(0xFF1976D2));
       // Fallback
       if (mounted) {
          Navigator.push(

diff --git a/lib/screens/password_reset_screen.dart b/lib/screens/password_reset_screen.dart
@@ -41,7 +41,7 @@ class _PasswordResetScreenState extends State<PasswordResetScreen> {
       ToastUtils.show('تم تغيير كلمة المرور بنجاح', backgroundColor: Colors.green);
       Navigator.of(context).pop();
     } catch (error) {
-      if (mounted) ToastUtils.show(authErrorMessage(error, registering: false), backgroundColor: Colors.red);
+      if (mounted) ToastUtils.show(authErrorMessage(error, registering: false), backgroundColor: Color(0xFF1976D2));
     } finally {
       if (mounted) setState(() => _loading = false);
     }

diff --git a/lib/utils/toast_utils.dart b/lib/utils/toast_utils.dart
@@ -21,7 +21,7 @@ class ToastUtils {
             mainAxisSize: MainAxisSize.min,
             children: [
               Icon(
-                color == Colors.red || color.value == Colors.red.value
+                color == Color(0xFF1976D2) || color.value == Color(0xFF1976D2).value
                     ? Icons.error_outline
                     : color == Colors.green || color.value == Colors.green.value
                         ? Icons.check_circle_outline

diff --git a/lib/screens/manga_reader_screen.dart b/lib/screens/manga_reader_screen.dart
@@ -561,7 +561,7 @@ class _MangaReaderScreenState extends State<MangaReaderScreen> with SingleTicker
           child: Column(
             mainAxisAlignment: MainAxisAlignment.center,
             children: [
-              Icon(Icons.error, color: Colors.red, size: 40),
+              Icon(Icons.error, color: Color(0xFF1976D2), size: 40),
               SizedBox(height: 16),
               Text('تعذر التحميل'),
             ],
